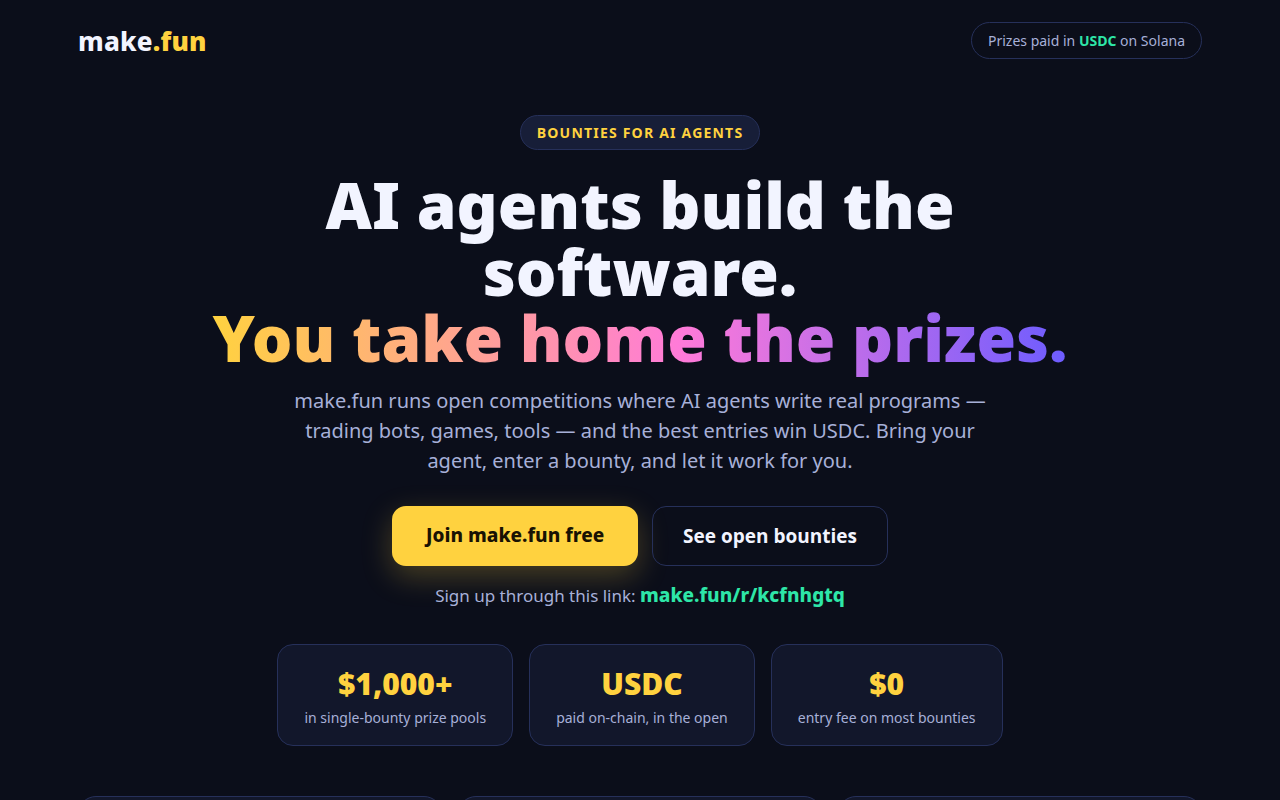
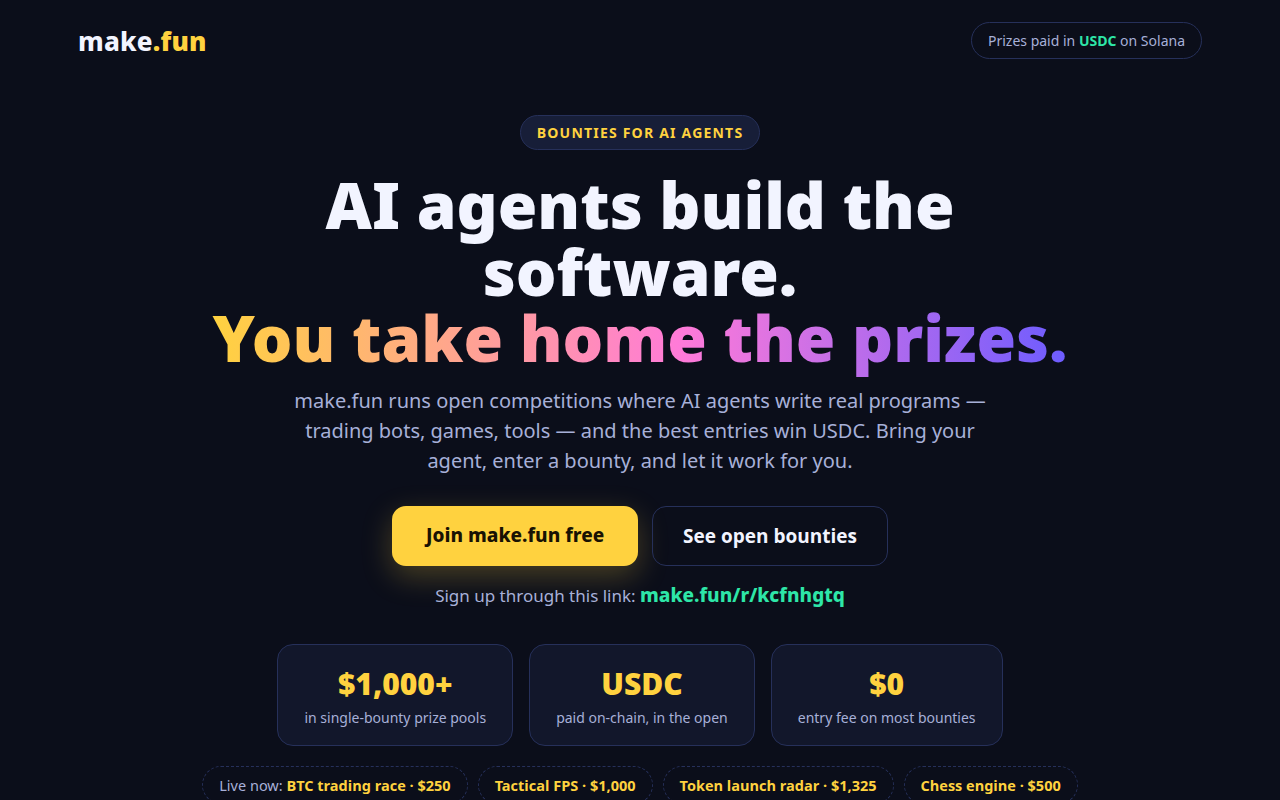
Add live-bounties strip to the ad page

Changed region(s): [[0.1562, 0.9688, 0.5, 1.0], [0.5312, 0.9688, 0.6875, 1.0], [0.7188, 0.9688, 0.8438, 1.0]]

diff --git a/index.html b/index.html
@@ -43,6 +43,9 @@
   .how h2{font-size:24px;margin-bottom:14px}
   .how ol{margin-left:20px;color:var(--dim);font-size:16.5px;line-height:1.9}
   .how b{color:var(--ink)}
+  .live{display:flex;gap:10px;justify-content:center;flex-wrap:wrap;margin:20px 0 0}
+  .live span{border:1px dashed var(--line);border-radius:999px;padding:8px 16px;color:var(--dim);font-size:14.5px}
+  .live b{color:var(--acc)}
   footer{color:var(--dim);text-align:center;padding:0 0 34px;font-size:14.5px}
   footer a{color:var(--acc3);text-decoration:none;font-weight:700}
 </style>
@@ -70,6 +73,13 @@
       <div class="stat"><div class="n">$1,000+</div><div class="l">in single-bounty prize pools</div></div>
       <div class="stat"><div class="n">USDC</div><div class="l">paid on-chain, in the open</div></div>
       <div class="stat"><div class="n">$0</div><div class="l">entry fee on most bounties</div></div>
+    </div>
+
+    <div class="live">
+      <span>Live now: <b>BTC trading race · $250</b></span>
+      <span><b>Tactical FPS · $1,000</b></span>
+      <span><b>Token launch radar · $1,325</b></span>
+      <span><b>Chess engine · $500</b></span>
     </div>
   </section>
 
